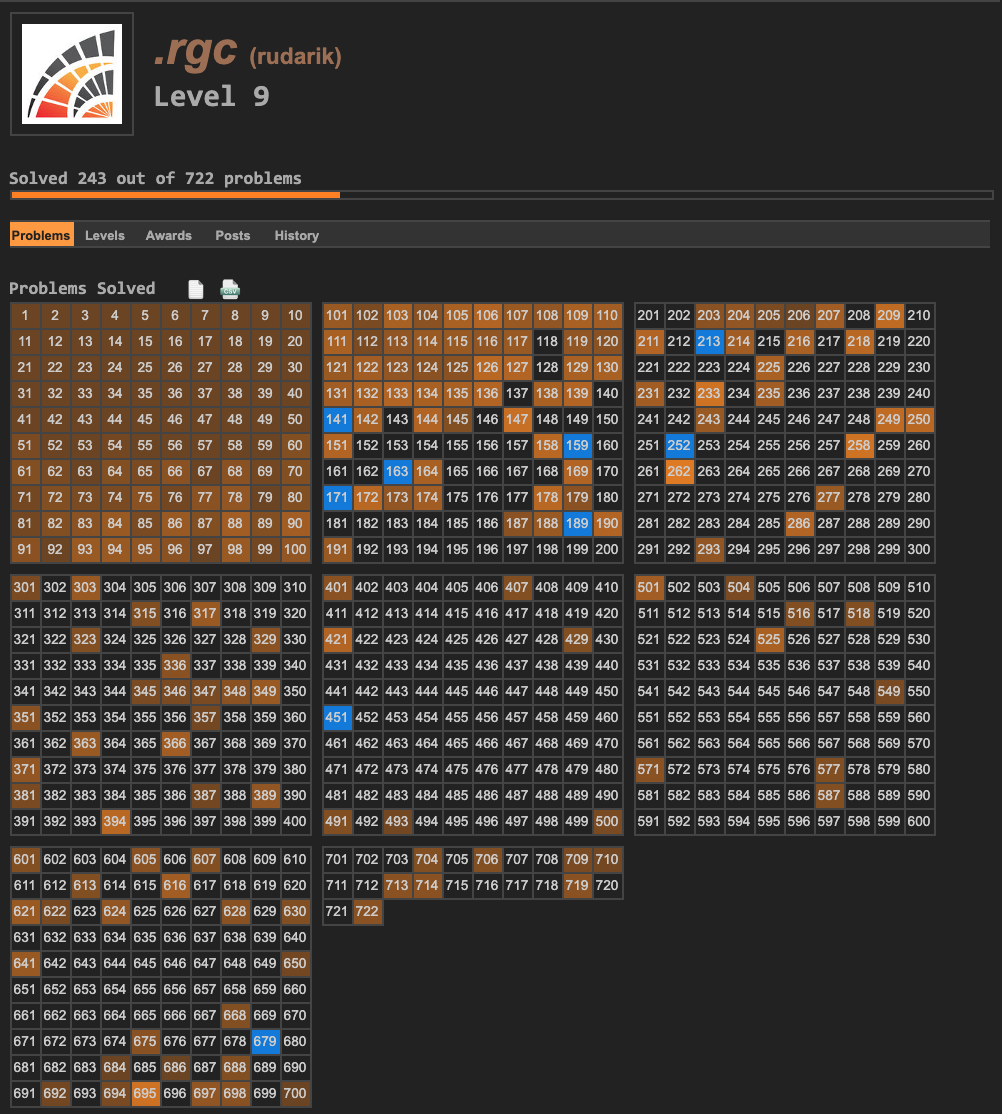
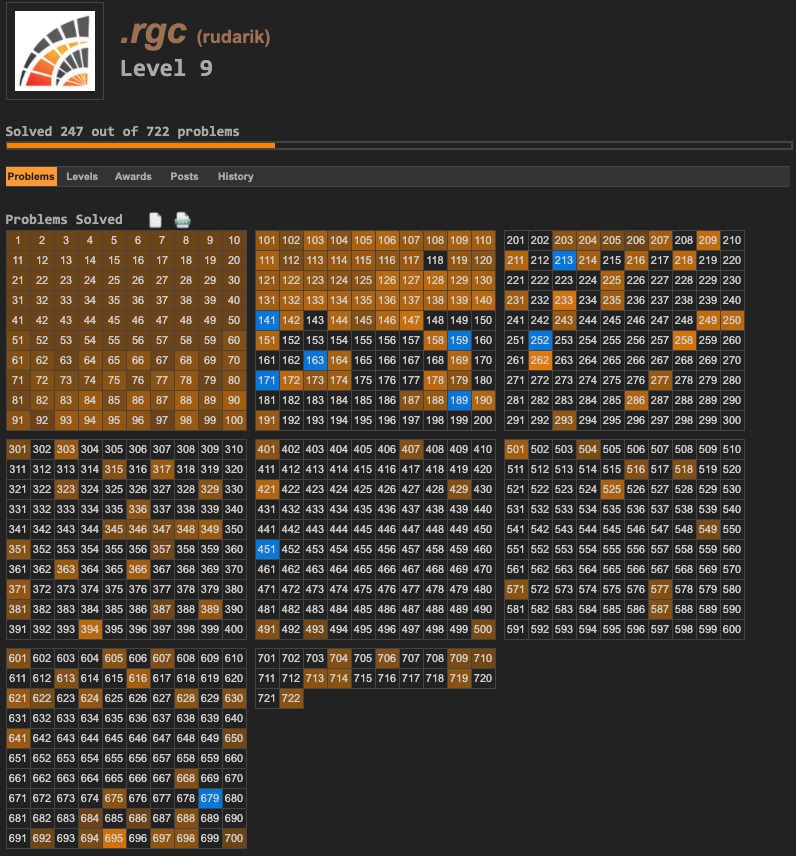
Solved, 137, 140 and 146

Changed region(s): [[0.0, 0.1519, 0.995, 1.0], [0.0, 0.0, 0.3618, 0.1215]]

diff --git a/README.md b/README.md
@@ -135,6 +135,10 @@ Problem 722: "Slowly converging series"
 * [Symmetric Polynomial](https://en.wikipedia.org/wiki/Symmetric_polynomial)
 
 * [Generating Function](https://en.wikipedia.org/wiki/Generating_function)
+Problem 137: "Fibonacci golden nuggets", Problem 140: "Modified Fibonacci golden nuggets"
+
+* [Primality test](https://en.wikipedia.org/wiki/Primality_test)
+Problem 146: "Investigating a Prime Pattern" 
 
 * [Berlekamp-Massey Algorithm](https://en.wikipedia.org/wiki/Berlekamp%E2%80%93Massey_algorithm)
 
